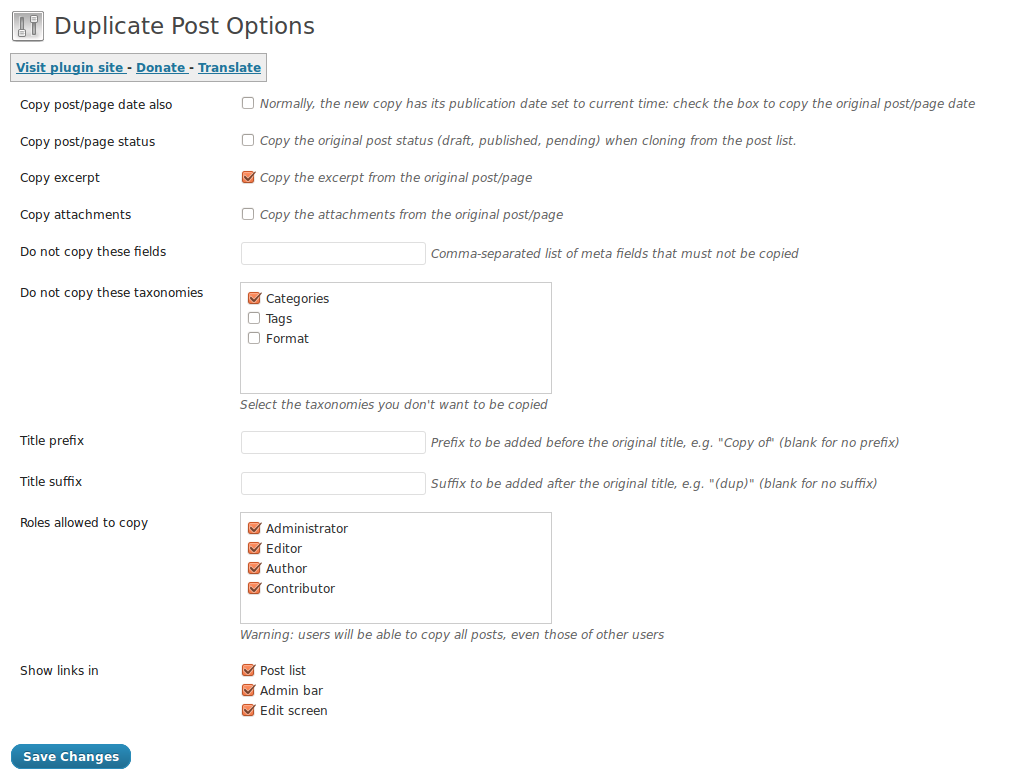
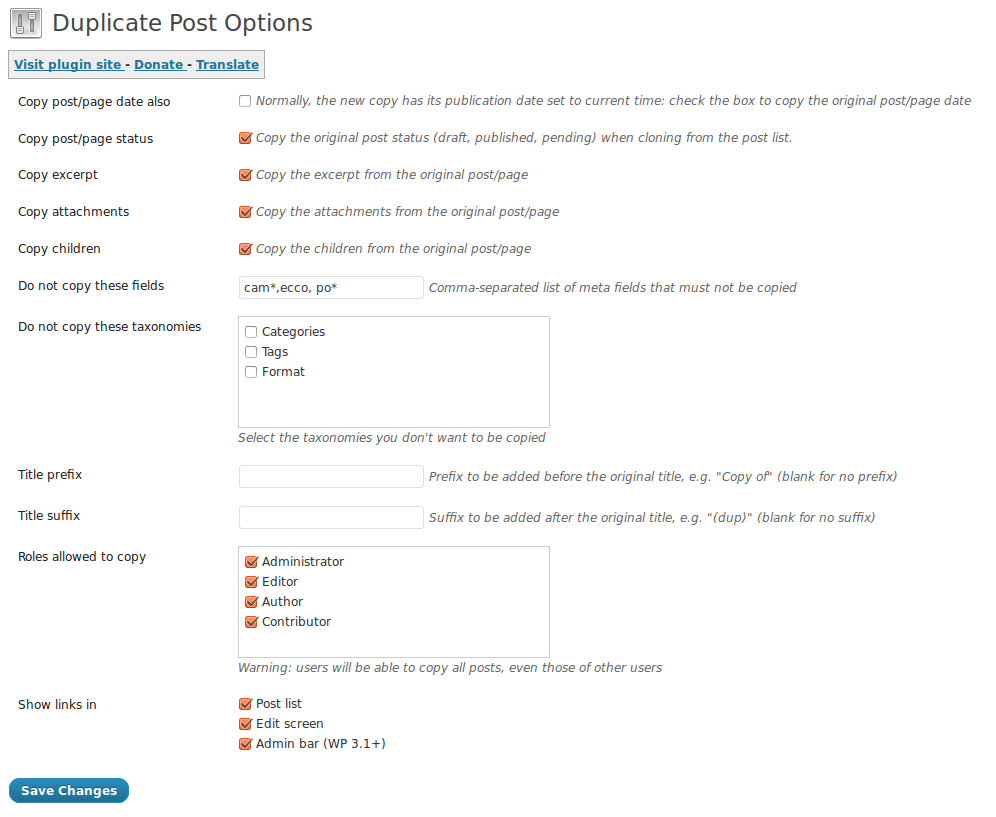
Next version will be 2.4 + updated options screenshot
git-svn-id: https://plugins.svn.wordpress.org/duplicate-post/trunk@537666 b8457f37-d9ea-0310-8a92-e5e31aec5664

diff --git a/duplicate-post.php b/duplicate-post.php
@@ -30,7 +30,7 @@ Foundation, Inc., 51 Franklin St, Fifth Floor, Boston, MA  02110-1301  USA
 define('DUPLICATE_POST_I18N_DOMAIN', 'duplicate-post');
 
 // Version of the plugin
-define('DUPLICATE_POST_CURRENT_VERSION', '2.3.1' );
+define('DUPLICATE_POST_CURRENT_VERSION', '2.4' );
 
 /**
  * Initialise the internationalisation domain
